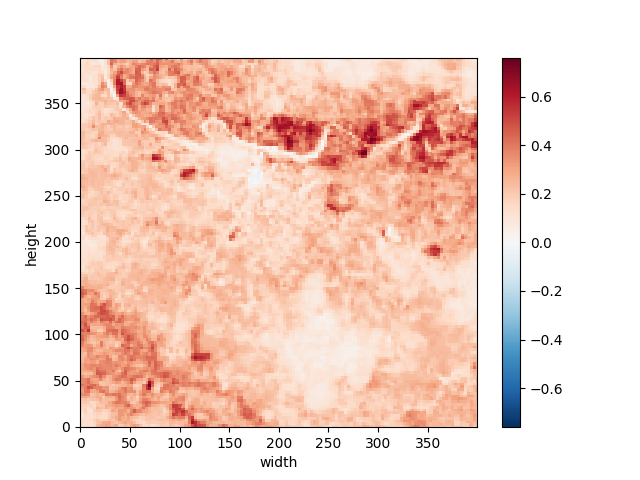
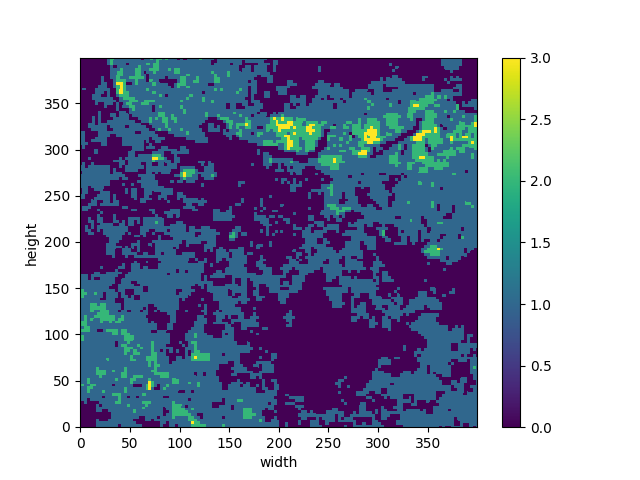
baseline models

diff --git a/scripts/train.py b/scripts/train.py
@@ -1,0 +1,220 @@
+import sys
+from argparse import ArgumentParser
+from pytorch_lightning.loggers import WandbLogger
+from pathlib import Path
+import pytorch_lightning as pl
+import wandb
+import xarray as xr
+from pytorch_lightning.callbacks import (
+    LearningRateMonitor,
+    ModelCheckpoint,
+    RichModelSummary,
+    RichProgressBar,
+)
+
+sys.path.append(".")
+from src.esd_data.datamodule import ESDDataModule
+from src.models.supervised.satellite_module import ESDSegmentation
+from src.utilities import ESDConfig, PROJ_NAME
+
+ROOT = Path.cwd()
+
+
+def train(options: ESDConfig):
+    # initialize wandb
+    # setup the wandb logger
+    wandb_logger = WandbLogger(project="cs175-idk", config=options)
+    # if wandb.run.sweep_id:
+    #     wandb.run.tags = [f"Sweep {wandb.run.sweep_id}"]
+    # initialize the datamodule
+
+    datamodule = ESDDataModule(
+        processed_dir=config.processed_dir,
+        raw_dir=config.raw_dir,
+        batch_size=config.batch_size,
+        seed=config.seed,
+        selected_bands=config.selected_bands,
+        slice_size=config.slice_size,
+    )   
+    datamodule.prepare_data()
+    subtiles = list((config.processed_dir / "Train" / "subtiles").glob("Tile*")) + list((config.processed_dir / "Val" / "subtiles").glob("Tile*"))
+    print("Last Processing part (no timer)")
+    for subtile in subtiles:
+        for part in subtile.glob("*"):
+            if((part / "landsat.nc").exists() == False):
+                continue
+            landsat = part / "landsat.nc"
+            landsat = xr.open_dataarray(landsat).mean(dim="date")
+            landsat_rgb = landsat.sel(band=["4", "3", "2"])
+            landsat_ndvi= (landsat.sel(band="5") - landsat.sel(band="4")) / (landsat.sel(band="5") + landsat.sel(band="4")).squeeze()
+            for i in range(landsat_ndvi.shape[0]):
+                for j in range(landsat_ndvi.shape[1]):
+                    val = landsat_ndvi[i][j]
+                    #Bad Vegetation
+                    if(val < 0.2):
+                        landsat_ndvi[i][j] = 0
+                    #Less bad Vegetation:
+                    elif(val < 0.4):
+                        landsat_ndvi[i][j] = 1
+                    #Ok Vegetation
+                    elif(val < 0.6):
+                        landsat_ndvi[i][j] = 2
+                    #Good Vegetation
+                    else:
+                        landsat_ndvi[i][j] = 3
+            
+            landsat_rgb.to_netcdf(part / "landsat_rgb.nc")
+            landsat_ndvi.to_netcdf(part / "landsat_ndvi.nc")
+            landsat.close()
+            (part / "landsat.nc").unlink()
+            (part / "gt.nc").unlink()
+        
+
+    datamodule.setup("fit")
+
+    # create a model params dict to initialize ESDSegmentation
+    model_params = {}
+    if options.model_type == "UNet":
+        model_params = {
+            "n_encoders": options.n_encoders,
+            "embedding_size": options.embedding_size,
+            "model_type": "UNet"
+        }
+    elif options.model_type == "FCNResnetTransfer":
+        model_params = {
+            "model_type": "FCNResnetTransfer"
+        }
+    elif options.model_type == "SegmentationCNN":
+        model_params = {
+            "depth": options.depth,
+            "kernel_size": options.kernel_size,
+            "pool_size": options.pool_sizes,
+            "model_type": "SegmentationCNN"
+        }
+
+    # note: different models have different parameters
+
+    # initialize the ESDSegmentation model
+    segmentation_model = ESDSegmentation(
+        model_type=options.model_type,
+        in_channels=3,
+        out_channels=4,
+        model_params=model_params,
+        learning_rate=options.learning_rate,
+    )
+    # Use the following callbacks, they're provided for you,
+    # but you may change some of the settings
+    # ModelCheckpoint: saves intermediate results for the neural network
+    # in case it crashes
+    # LearningRateMonitor: logs the current learning rate on weights and biases
+    # RichProgressBar: nicer looking progress bar (requires the rich package)
+    # RichModelSummary: shows a summary of the model before training (requires rich)
+    callbacks = [
+        ModelCheckpoint(
+            dirpath=ROOT / "models" / options.model_type,
+            filename="{epoch}-{val_loss:.2f}-{other_metric:.2f}",
+            save_top_k=0,
+            save_last=True,
+            verbose=True,
+            monitor="val_loss",
+            mode="min",
+            every_n_train_steps=1000,
+        ),
+        LearningRateMonitor(),
+        RichProgressBar(),
+        RichModelSummary(max_depth=3),
+    ]
+
+    # initialize trainer, set accelerator, devices, number of nodes, logger
+    # max epochs and callbacks
+    trainer = pl.Trainer(
+        accelerator = "gpu",
+        devices = options.devices,
+        num_nodes = 1,
+        max_epochs= options.max_epochs,
+        callbacks= callbacks,
+        logger = wandb_logger
+    )
+    # run trainer.fit
+    trainer.fit(segmentation_model, datamodule=datamodule)
+    
+
+
+if __name__ == "__main__":
+    # load dataclass arguments from yml file
+
+    config = ESDConfig()
+    parser = ArgumentParser()
+
+    parser.add_argument(
+        "--model_type",
+        type=str,
+        help="The model to initialize.",
+        default=config.model_type,
+    )
+    parser.add_argument(
+        "--learning_rate",
+        type=float,
+        help="The learning rate for training model",
+        default=config.learning_rate,
+    )
+    parser.add_argument(
+        "--max_epochs",
+        type=int,
+        help="Number of epochs to train for.",
+        default=config.max_epochs,
+    )
+    parser.add_argument(
+        "--raw_dir", type=str, default=config.raw_dir, help="Path to raw directory"
+    )
+    parser.add_argument(
+        "-p", "--processed_dir", type=str, default=config.processed_dir, help="."
+    )
+
+    parser.add_argument(
+        "--in_channels",
+        type=int,
+        default=config.in_channels,
+        help="Number of input channels",
+    )
+    parser.add_argument(
+        "--out_channels",
+        type=int,
+        default=config.out_channels,
+        help="Number of output channels",
+    )
+    parser.add_argument(
+        "--depth",
+        type=int,
+        help="Depth of the encoders (CNN only)",
+        default=config.depth,
+    )
+    parser.add_argument(
+        "--n_encoders",
+        type=int,
+        help="Number of encoders (Unet only)",
+        default=config.n_encoders,
+    )
+    parser.add_argument(
+        "--embedding_size",
+        type=int,
+        help="Embedding size of the neural network (CNN/Unet)",
+        default=config.embedding_size,
+    )
+    parser.add_argument(
+        "--pool_sizes",
+        help="A comma separated list of pool_sizes (CNN only)",
+        type=str,
+        default=config.pool_sizes,
+    )
+    parser.add_argument(
+        "--kernel_size",
+        help="Kernel size of the convolutions",
+        type=int,
+        default=config.kernel_size,
+    )
+
+    parse_args = parser.parse_args()
+
+    config = ESDConfig(**parse_args.__dict__)
+    train(config)

diff --git a/src/esd_data/dataset.py b/src/esd_data/dataset.py
@@ -2,10 +2,11 @@ import sys
 from pathlib import Path
 from typing import List, Tuple
 
+import torch
 import numpy as np
 from torch.utils.data import Dataset
 from torchvision import transforms as torchvision_transforms
-
+import xarray as xr
 sys.path.append(".")
 from src.preprocessing.subtile import Subtile
 from src.utilities import SatelliteType
@@ -104,31 +105,42 @@ class ESDDataset(Dataset):
             y: np.ndarray | torch.Tensor
                 ground truth, of shape (1, width, height)
         """
-        # create a subtile and load by directory. The directory to load from will be the subtile_dirs at idx.
-        subtile = Subtile.load_subtile_by_dir(self.subtile_dirs[idx], self.satellite_type_list, self.slice_size)
-        # get the data_array_list and ground truth from the subtile satellite list and ground truth
-        data_array_list, ground_truth = subtile.satellite_list, subtile.ground_truth
-        # convert items to their .values form, we are stripping away the xarray so we can feed the data into the model
-        data_array_list = [data_array.values for data_array in data_array_list]
-        # initalize a list to store X
-        x = []
-        # iterate over each array in the stripped array from above
-        for array in data_array_list:
-            # aggregate time and append the array to X
-            x.append(self.__aggregate_time(array))
+        # # create a subtile and load by directory. The directory to load from will be the subtile_dirs at idx.
+        #subtile = Subtile.load_subtile_by_dir(self.subtile_dirs[idx], self.satellite_type_list, self.slice_size)
+        # # get the data_array_list and ground truth from the subtile satellite list and ground truth
+        # data_array_list, ground_truth = subtile.satellite_list, subtile.ground_truth
+        # # convert items to their .values form, we are stripping away the xarray so we can feed the data into the model
+        # data_array_list = [data_array.values for data_array in data_array_list]
+        # # initalize a list to store X
+        # x = []
+        # # iterate over each array in the stripped array from above
+        # for array in data_array_list:
+        #     # aggregate time and append the array to X
+        #     x.append(self.__aggregate_time(array))
 
-        # concatenate X
-        x = np.concatenate(x)
-        # set y to be the ground truth data array .values squeezed on the 0 and 1 axis
-        y = np.squeeze(ground_truth.values, axis=(0, 1))
+        # # concatenate X
+        # x = np.concatenate(x)
+        # # set y to be the ground truth data array .values squeezed on the 0 and 1 axis
+        # y = np.squeeze(ground_truth.values, axis=(0, 1))
 
-        # if the transform is not none
-        if self.transform is not None:
-            # apply the transform to X and y and store the result
-            new_dict = self.transform({"X": x, "y": y})
-            # set X to be the result for X
-            x = new_dict["X"]
-            # set y to be the result for y
-            y = new_dict["y"]
-        # return X and y-1, labels go from 1-4, so y-1 makes them zero indexed
-        return x, y-1
+        # # if the transform is not none
+        # if self.transform is not None:
+        #     # apply the transform to X and y and store the result
+        #     new_dict = self.transform({"X": x, "y": y})
+        #     # set X to be the result for X
+        #     x = new_dict["X"]
+        #     # set y to be the result for y
+        #     y = new_dict["y"]
+        # # return X and y-1, labels go from 1-4, so y-1 makes them zero indexed
+        subtile_path = self.subtile_dirs[idx]
+        x = xr.open_dataarray(subtile_path / "landsat_rgb.nc") #3x400x400 rgb array
+        y = xr.open_dataarray(subtile_path / "landsat_ndvi.nc") #400x400 ndvi array
+        x = x.values
+        y = y.values
+        # if self.transform is not None:
+        #     new_dict = self.transform({"X": x, "y": y})
+        #     x = new_dict["X"]
+        #     y = new_dict["y"]
+        #y = y.reshape(1, y.shape[0], y.shape[1])
+        return torch.tensor(x), torch.tensor(y)
+    

diff --git a/scripts/prepare_data.py b/scripts/prepare_data.py
@@ -5,7 +5,7 @@ import xarray as xr
 sys.path.append(".")
 from src.esd_data.datamodule import ESDDataModule
 from src.utilities import SatelliteType
-
+import numpy as np
 from src.utilities import ESDConfig, PROJ_NAME
 
 
@@ -22,7 +22,8 @@ def prepare_data(config: ESDConfig):
     datamodule.prepare_data()
     subtiles = list((config.processed_dir / "Train" / "subtiles").glob("Tile*")) + list((config.processed_dir / "Val" / "subtiles").glob("Tile*"))
     print("Last Processing part (no timer)")
-
+    #Thresholds
+    map = np.vectorize(lambda val: 0 if val < 0.2 else (1 if val < 0.4 else (2 if val < 0.6 else 3)))
     #Makes the landsat_rgb and landsat_ndvi files. Gets the mean image across the dates  
     for subtile in subtiles:
         for part in subtile.glob("*"):
@@ -31,7 +32,24 @@ def prepare_data(config: ESDConfig):
             landsat = part / "landsat.nc"
             landsat = xr.open_dataarray(landsat).mean(dim="date")
             landsat_rgb = landsat.sel(band=["4", "3", "2"])
-            landsat_ndvi= (landsat.sel(band="5") - landsat.sel(band="4")) / (landsat.sel(band="5") + landsat.sel(band="4"))
+            landsat_ndvi= (landsat.sel(band="5") - landsat.sel(band="4")) / (landsat.sel(band="5") + landsat.sel(band="4")).squeeze()
+            
+            # for i in range(landsat_ndvi.shape[0]):
+            #     for j in range(landsat_ndvi.shape[1]):
+            #         val = landsat_ndvi[i][j]
+            #         #Bad Vegetation
+            #         if(val < 0.2):
+            #             landsat_ndvi[i][j] = 0
+            #         #Less bad Vegetation:
+            #         elif(val < 0.4):
+            #             landsat_ndvi[i][j] = 1
+            #         #Ok Vegetation
+            #         elif(val < 0.6):
+            #             landsat_ndvi[i][j] = 2
+            #         #Good Vegetation
+            #         else:
+            #             landsat_ndvi[i][j] = 3
+            landsat_ndvi = xr.apply_ufunc(map, landsat_ndvi)
             landsat_rgb.to_netcdf(part / "landsat_rgb.nc")
             landsat_ndvi.to_netcdf(part / "landsat_ndvi.nc")
             landsat.close()

diff --git a/src/visualization/check_data.py b/src/visualization/check_data.py
@@ -6,9 +6,9 @@ path = Path("data/processed/Train/subtiles/Tile4/0_0")
 
 # Load the data
 landsat = xr.open_dataarray(path / "landsat_rgb.nc")
-
-ndvi = xr.open_dataarray(path / "landsat_ndvi.nc")
-
+print(landsat.values.shape)
+ndvi = xr.open_dataarray(path / "landsat_ndvi.nc").astype(int)
+print(ndvi.values.shape)
 #plots rgb image of landsat
 landsat_rgb = landsat
 landsat_rgb.plot.imshow()
